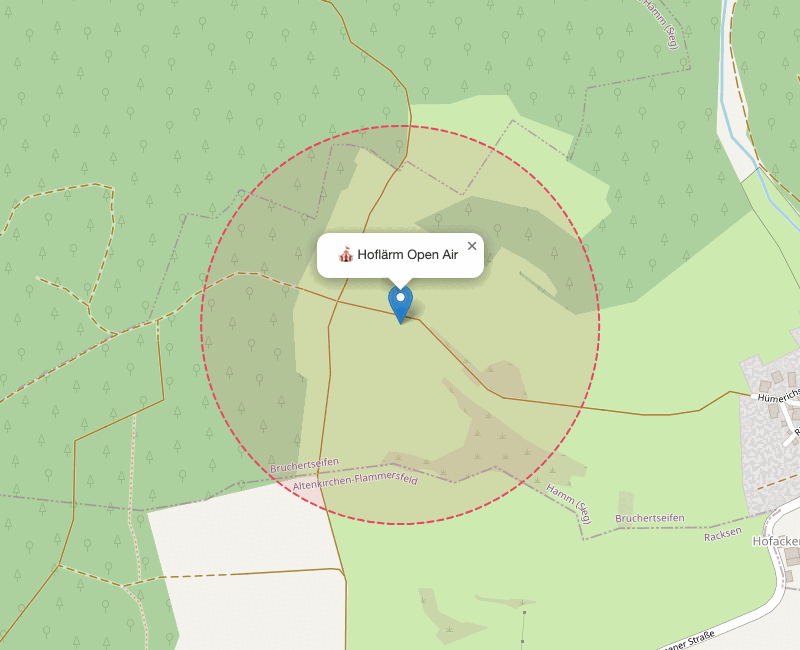
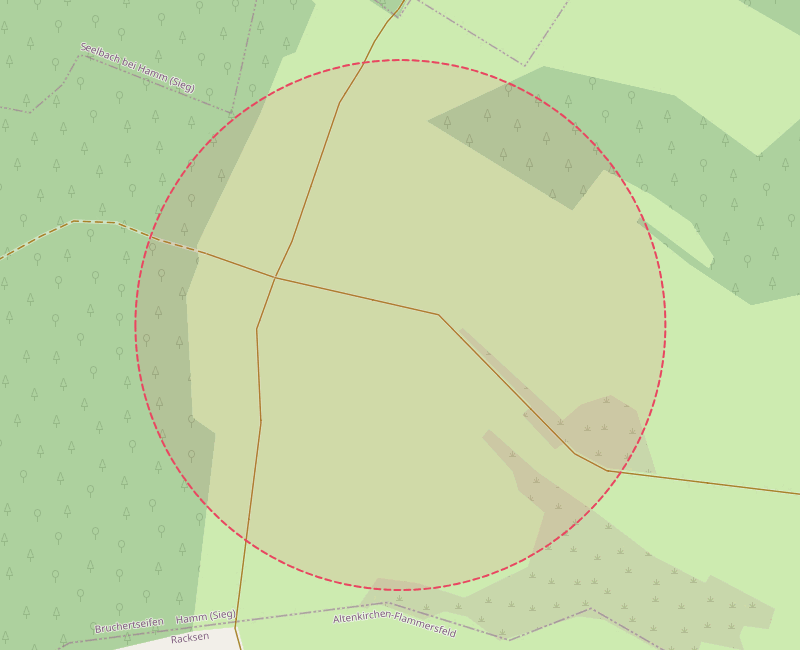
Cleaner lageplan: remove marker, zoom in to 17, subtle radius circle

diff --git a/scripts/screenshot-lageplan.js b/scripts/screenshot-lageplan.js
@@ -11,11 +11,7 @@ if (!slug) { console.error('Usage: node scripts/screenshot-lageplan.js <festival
 const FESTIVALS = {
   'hoflaerm-2026': {
     lat: 50.7430, lon: 7.6970, name: 'Hoflärm Open Air',
-    zoom: 16, radius: 300,
-  },
-  'appletree-2026': {
-    lat: 52.60528, lon: 8.38817, name: 'Appletree Garden',
-    zoom: 16, radius: 300,
+    zoom: 17, radius: 200,
   },
 };
 
@@ -42,12 +38,7 @@ L.tileLayer('https://tile.openstreetmap.org/{z}/{x}/{y}.png', {
 }).addTo(map);
 
 // festival marker
-L.marker([${cfg.lat}, ${cfg.lon}])
-  .bindPopup('🎪 ${cfg.name}')
-  .addTo(map)
-  .openPopup();
-
-// radius circle
+// subtle radius circle — no marker, users place their own
 L.circle([${cfg.lat}, ${cfg.lon}], {
   radius: ${cfg.radius},
   color: '#e94560',
